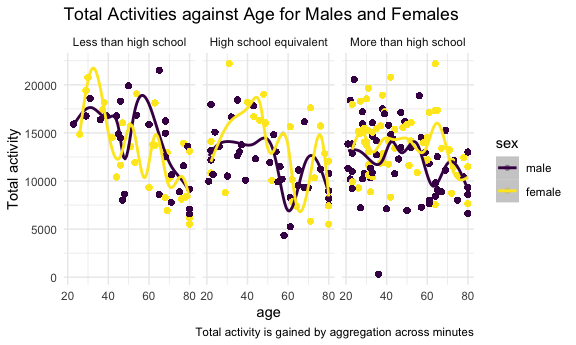
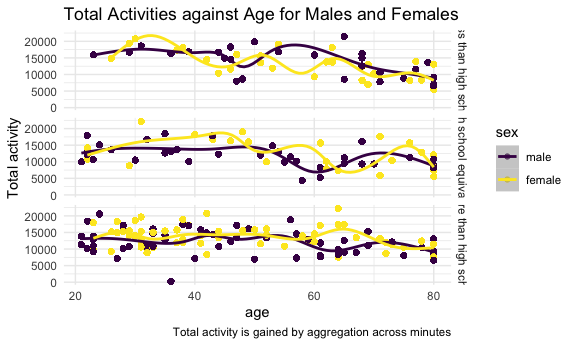
adjust plots for problem 3

diff --git a/p8105_hw3_ml5018.md b/p8105_hw3_ml5018.md
@@ -740,9 +740,9 @@ nhanes_df |>
   left_join(nhanes_df) |>
   select(sex, age, education, sum) |>
   ggplot(aes(x = age, y = sum, color = sex)) +
-  geom_point(alpha = .5) +
+  geom_point() +
   geom_smooth(alpha = .5) +
-  facet_grid(.~education) +
+  facet_grid(education~.) +
   labs(
     title = "Total Activities against Age for Males and Females",
     x = "age",
@@ -755,6 +755,29 @@ nhanes_df |>
     ## `geom_smooth()` using method = 'gam' and formula = 'y ~ s(x, bs = "cs")'
 
 <img src="p8105_hw3_ml5018_files/figure-gfm/comparison-1.png" width="90%" />
+
+``` r
+nhanes_df |>
+  group_by(seqn) |>
+  summarize(sum = sum(value)) |>
+  left_join(nhanes_df) |>
+  select(sex, age, education, sum) |>
+  ggplot(aes(x = age, y = sum, color = sex)) +
+  geom_line(alpha = .5) +
+  geom_smooth(alpha = .5) +
+  facet_grid(education~.) +
+  labs(
+    title = "Total Activities against Age for Males and Females",
+    x = "age",
+    y = "Total activity",
+    caption = "Total activity is gained by aggregation across minutes"
+  )
+```
+
+    ## Joining with `by = join_by(seqn)`
+    ## `geom_smooth()` using method = 'gam' and formula = 'y ~ s(x, bs = "cs")'
+
+<img src="p8105_hw3_ml5018_files/figure-gfm/comparison-2.png" width="90%" />
 
 A point plot is drawn due to the disparation of the data, from which we
 can see that the despite the fluctuation, total activity in “Less than
@@ -770,20 +793,38 @@ including smooth trends may help identify differences.
 ``` r
 nhanes_df |>
   ggplot(aes(x = min, y = value, color = sex)) +
-  geom_line(alpha = .5) +
+  geom_point(alpha = .5) +
   geom_smooth() +
-  facet_grid(.~education) +
+  facet_grid(education~.) +
   labs(
     title = "24-Hour Activity Time Courses",
     x = "time",
     y = "activity",
     caption = "Data from nhanes dataset"
-  )
+  ) 
 ```
 
     ## `geom_smooth()` using method = 'loess' and formula = 'y ~ x'
 
 <img src="p8105_hw3_ml5018_files/figure-gfm/three_panel-1.png" width="90%" />
+
+``` r
+nhanes_df |>
+  ggplot(aes(x = min, y = value, color = sex)) +
+  geom_line(alpha = .5) +
+  geom_smooth() +
+  facet_grid(education~.) +
+  labs(
+    title = "24-Hour Activity Time Courses",
+    x = "time",
+    y = "activity",
+    caption = "Data from nhanes dataset"
+  ) 
+```
+
+    ## `geom_smooth()` using method = 'loess' and formula = 'y ~ x'
+
+<img src="p8105_hw3_ml5018_files/figure-gfm/three_panel-2.png" width="90%" />
 
 A line plot is applied to manifest the activity changing pattern
 according to time. The alpha value is set because of the overlapping
